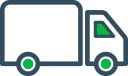
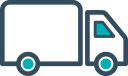
promenjena boja na ikonicama hronologije

Changed region(s): [[0.75, 0.2895, 0.875, 0.4737], [0.1562, 0.7632, 0.2812, 0.9211], [0.7812, 0.7632, 0.875, 0.9211]]

diff --git a/index.html b/index.html
@@ -318,7 +318,7 @@
             </div>
             <div class="col col-md-6 col-xl-3">
                 <div class="card h-100">
-                    <img src="images/packing-supplies.png" class="img-fluid d-block mx-auto mt-2 mt-md-3 mb-4"
+                    <img src="images/pakovanje-i-utovar.png" class="img-fluid d-block mx-auto mt-2 mt-md-3 mb-4"
                          alt="#">
                     <div class="card-body d-flex flex-wrap justify-content-center">
                         <h5 class="card-title grey-color pb-2">Pakovanje i utovar
@@ -364,7 +364,7 @@
             </div>
             <div class="col col-md-6 col-xl-3">
                 <div class="card h-100">
-                    <img src="images/istovar-i-montaza-ikonica.png"
+                    <img src="images/istovar-montaza-selidbe.png"
                          class="img-fluid d-block mx-auto mt-2 mt-md-3 mb-4" alt="#">
                     <div class="card-body d-flex flex-wrap justify-content-center">
                         <h5 class="card-title grey-color pb-2">Istovar i montaža
